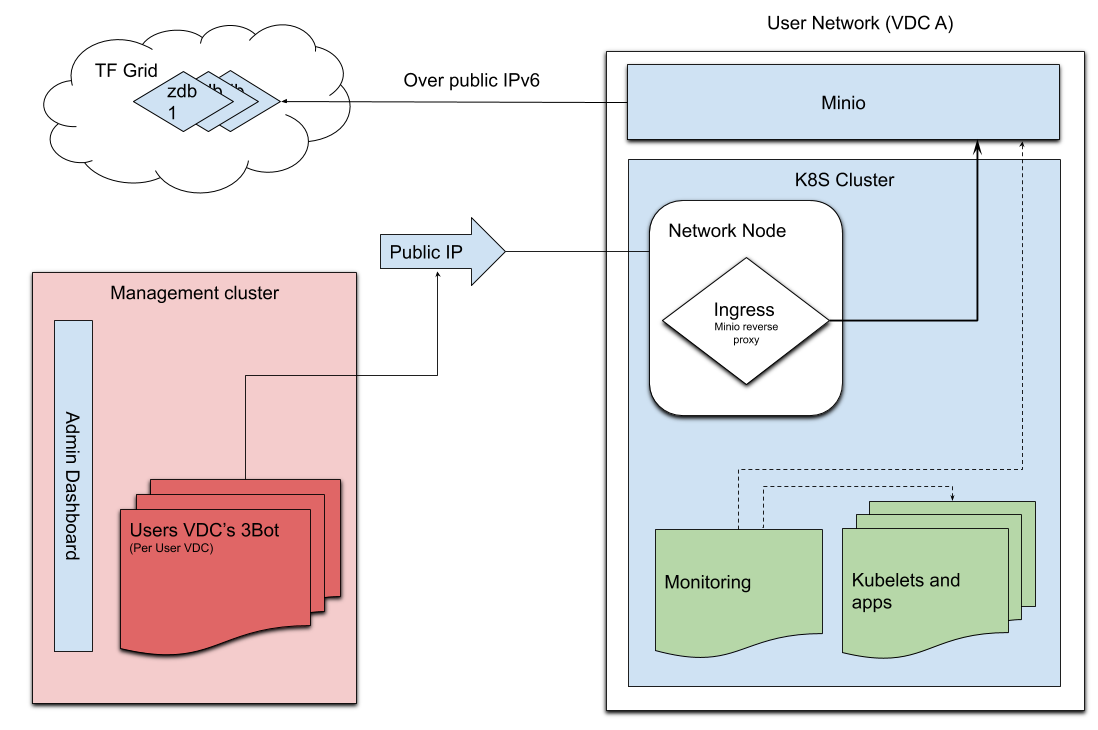
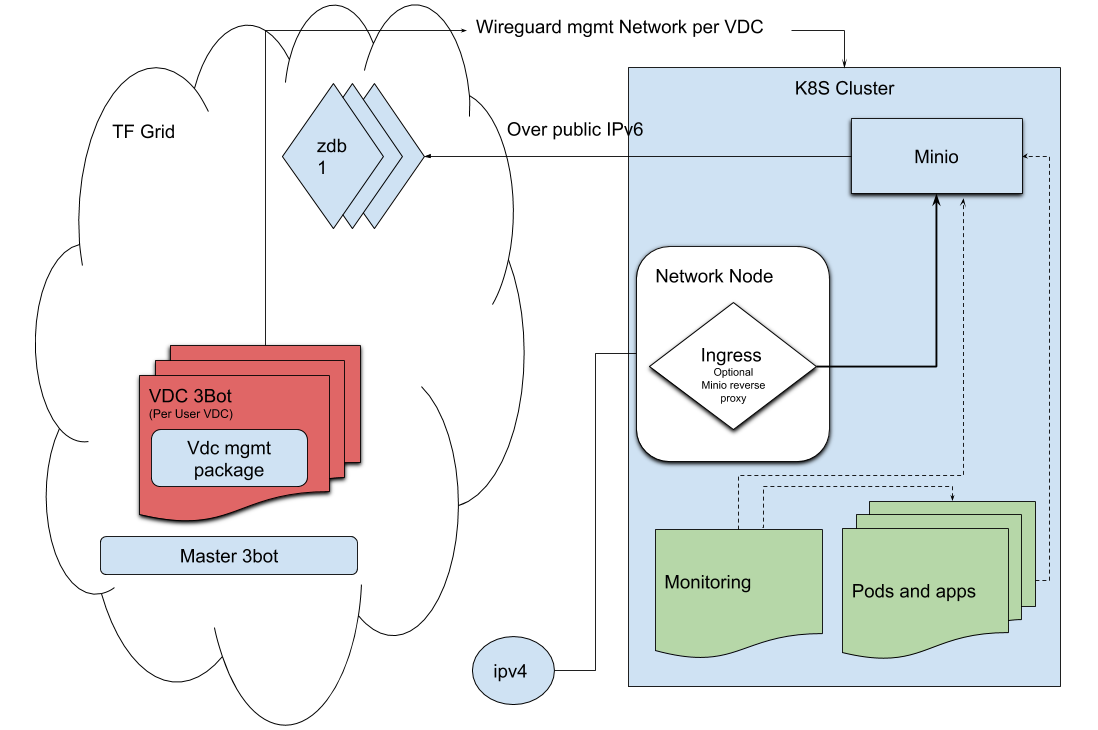
Archtitecture with a wireguard mgmt network per vdc

diff --git a/docs/architecture.md b/docs/architecture.md
@@ -1,15 +1,19 @@
-- VDC website is a 3bot with vdc package installed
-- we have a kuberentes cluster for mgmt purposes where we deploy the 3bot per each vdc
+- A master 3 bot is able to create new Vdc's
+- A 3bot per vdc is deployed
+  - VDC website is a 3bot with vdc package installed
 - VDC is (kubernetes + minio) in the same network
+  - the vdc 3bot can reach the cluster over a wireguard mgmt network per vdc
   - cluster is exposed using edge network node from a farm providing public IPs 
   - monitoring runs in kubernetes
-  - minio runs outside of the kubernetes cluster (there's no ip6 support and minio needs to reach to zdbs on public ipv6)
-  - we run a reverse proxy (in the cluster) to reach out to minio
-    - this reverse proxy is exposed on the ingress
-  
- 
-- we deploy a 3bot that can
+  - minio runs inside of the kubernetes cluster
+  - on the Vdc website a user can choose to expose minio publicly
+    - a reverse reverse proxy (in the cluster)  is then deployed in the cluster  exposed on the ingress
+
+Using the existing authorisation, the user can be limited to the vdc website and not the other packages.  
+
+- The vdc 3bot can
   - extend resources of the vdc when needed
-  - scale out the zdbs once reaching a specific threshold maybe 70% 
+  - scale out the zdbs once reaching a specific threshold maybe 70%
+  - Deploy marketplace solutions in the cluster
 
 ![vdc arch for a single user user A](./img/arch.png)
